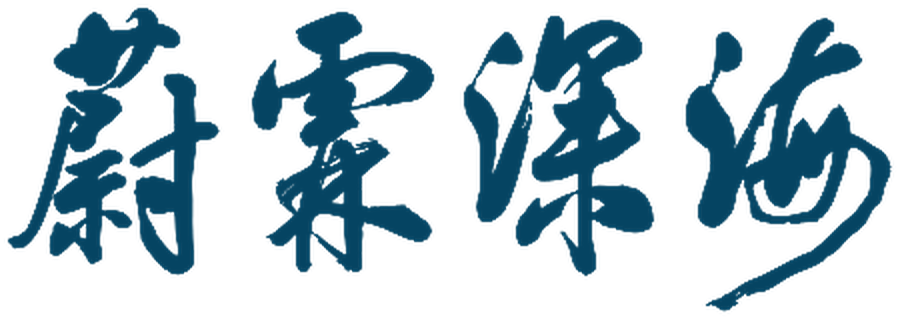
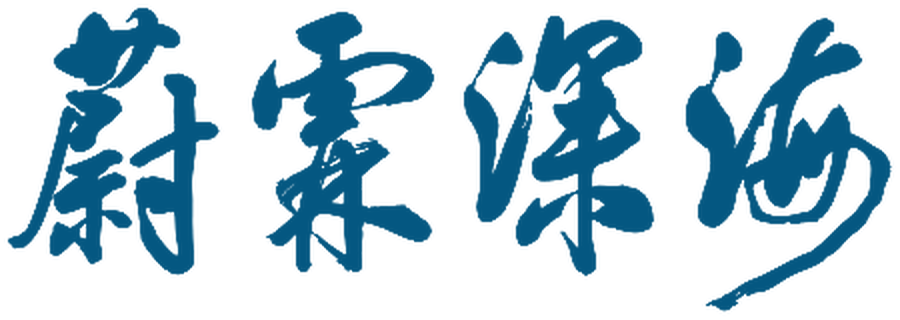
Card-style hero lockup, remove header calligraphy, more brand blue

Changed region(s): [[0.28, 0.0312, 0.7467, 0.8438], [0.7467, 0.0625, 0.9956, 0.9688], [0.0, 0.0312, 0.2489, 0.875]]

diff --git a/index.html b/index.html
@@ -21,8 +21,8 @@
   --text-xl:clamp(1.5rem,1.2rem + 1.25vw,2.25rem);
   --text-hero:clamp(2.75rem,1rem + 5.5vw,6rem);
   --space-2:.5rem;--space-3:.75rem;--space-4:1rem;--space-6:1.5rem;--space-8:2rem;--space-10:2.5rem;--space-12:3rem;--space-16:4rem;--space-24:6rem;
-  --navy:#054462; --blue:#065A82; --ink:#0d2230; --gold:#b8924a;
-  --bg:#f6f4ef; --surface:#fbfaf7; --line:#ddd8cf; --muted:#5e6b73;
+  --navy:#045781; --deep:#033f5e; --blue:#065A82; --ink:#0d2a3a; --gold:#94672f; --champ:#e3b886;
+  --bg:#eef3f6; --surface:#f7f9fa; --line:#cfdde5; --muted:#4f6573;
   --font-display:'Zodiak','Noto Serif TC',Georgia,serif;
   --font-body:'Switzer','Noto Sans TC',system-ui,sans-serif;
   --wrap:min(1120px,100% - 2*var(--space-6));
@@ -40,31 +40,31 @@ html[lang="zh-Hant"] [data-zh]{display:revert}
 
 /* header */
 header{position:fixed;inset:0 0 auto;z-index:20;transition:background .3s,box-shadow .3s}
-header.solid{background:rgba(246,244,239,.92);backdrop-filter:blur(12px);box-shadow:0 1px 0 var(--line)}
+header.solid{background:rgba(4,87,129,.94);backdrop-filter:blur(12px);box-shadow:0 1px 0 rgba(227,184,134,.25)}
 .bar{display:flex;align-items:center;justify-content:space-between;height:72px}
 .brand{display:flex;align-items:center;gap:var(--space-3);font-family:var(--font-display);font-size:var(--text-sm);color:#fff;text-decoration:none;letter-spacing:.06em;transition:color .3s}
-.brand .mk{height:34px;width:auto}
-.brand .mk-n{display:none}
-header.solid .brand .mk-w{display:none}
-header.solid .brand .mk-n{display:block}
-.brand span{padding-left:var(--space-3);border-left:1px solid currentColor;line-height:1.1;opacity:.9}
-@media (max-width:420px){.brand span{display:none}}
-.hero-mark{width:clamp(220px,32vw,440px);height:auto;margin-bottom:var(--space-8);filter:drop-shadow(0 2px 18px rgba(4,26,40,.45))}
+.brand{opacity:0;pointer-events:none;transition:opacity .3s}
+header.solid .brand{opacity:1;pointer-events:auto}
+.brand span{letter-spacing:.14em}
+.lockup{display:inline-block;margin-bottom:var(--space-10);color:var(--champ);filter:drop-shadow(0 2px 14px rgba(3,40,60,.5))}
+.hero-mark{display:block;width:clamp(220px,32vw,440px);height:auto}
+.lockup .en{display:block;font-family:'Switzer',sans-serif;font-weight:400;font-size:clamp(1rem,.8rem + 1vw,1.55rem);letter-spacing:.16em;margin-top:.1em;padding-left:.05em}
+.lockup .co{display:block;font-family:'Noto Sans TC',sans-serif;font-size:clamp(.95rem,.75rem + .9vw,1.4rem);letter-spacing:.32em;margin-top:.35em;padding-left:.05em}
 .contact-mark{width:clamp(160px,18vw,220px);height:auto;margin-bottom:var(--space-8)}
-header.solid .brand{color:var(--navy)}
+header.solid .brand{color:var(--champ)}
 nav{display:flex;align-items:center;gap:var(--space-6)}
 nav a{font-size:var(--text-sm);text-decoration:none;color:rgba(255,255,255,.88);transition:color .3s}
-header.solid nav a{color:var(--ink)}
+header.solid nav a{color:#fff}
 nav a:hover{color:var(--gold)}
 .lang{font:500 var(--text-xs) var(--font-body);letter-spacing:.08em;border:1px solid rgba(255,255,255,.6);color:#fff;background:transparent;border-radius:999px;padding:.35rem .9rem;cursor:pointer;transition:all .3s}
-header.solid .lang{border-color:var(--navy);color:var(--navy)}
+header.solid .lang{border-color:var(--champ);color:var(--champ)}
 .lang:hover{background:var(--gold);border-color:var(--gold);color:#fff}
 @media (max-width:720px){nav a{display:none}}
 
 /* hero */
 .hero{position:relative;min-height:100svh;display:flex;align-items:flex-end;color:#fff;overflow:hidden}
 .hero > img{position:absolute;inset:0;width:100%;height:100%;object-fit:cover;object-position:center 58%}
-.hero::after{content:"";position:absolute;inset:0;background:linear-gradient(180deg,rgba(5,30,45,.45) 0%,rgba(5,30,45,.05) 35%,rgba(5,30,45,.25) 60%,rgba(4,26,40,.85) 100%)}
+.hero::after{content:"";position:absolute;inset:0;background:linear-gradient(180deg,rgba(4,87,129,.55) 0%,rgba(4,87,129,.18) 35%,rgba(4,87,129,.35) 60%,rgba(3,63,94,.92) 100%),rgba(4,87,129,.18)}
 .hero .wrap{position:relative;z-index:1;padding-block:var(--space-24) var(--space-16)}
 .eyebrow{font-size:var(--text-xs);letter-spacing:.22em;text-transform:uppercase;color:#fff;text-shadow:0 1px 12px rgba(4,26,40,.6)}
 .hero h1,.hero p{text-shadow:0 2px 24px rgba(4,26,40,.35)}
@@ -84,7 +84,11 @@ html[lang="zh-Hant"] .story .lead{font-family:'Noto Serif TC',serif}
 .story p+p{margin-top:var(--space-4)}
 .story .body{color:#2f3b42}
 
-.services{background:var(--surface);border-block:1px solid var(--line)}
+.services{background:var(--navy);color:#e8f0f4}
+.services h2,.services .svc h3{color:#fff}
+.services .label,.services .num{color:var(--champ)}
+.services .svc-head p,.services .svc p{color:#c9dbe5}
+.services .svc,.services .svc article{border-color:rgba(227,184,134,.28)}
 .svc-head{display:flex;justify-content:space-between;align-items:end;gap:var(--space-8);flex-wrap:wrap}
 .svc-head p{max-width:44ch;color:var(--muted)}
 .svc{display:grid;grid-template-columns:repeat(3,1fr);margin-top:var(--space-12);border-top:1px solid var(--line)}
@@ -101,7 +105,8 @@ html[lang="zh-Hant"] .story .lead{font-family:'Noto Serif TC',serif}
 .feature li{padding-block:var(--space-3);border-bottom:1px solid var(--line);display:grid;grid-template-columns:1.5rem 1fr;gap:var(--space-2)}
 .feature li::before{content:"";width:6px;height:6px;border-radius:50%;background:var(--gold);margin-top:.7em}
 
-.founder{background:var(--navy);color:#eef3f5}
+.founder{background:var(--deep);color:#eef3f5}
+.founder .label{color:var(--champ)}
 .founder h2{color:#fff}
 .founder .grid{display:grid;grid-template-columns:1fr 1.3fr;gap:clamp(var(--space-8),6vw,var(--space-24))}
 .founder .name{font-family:var(--font-display);font-size:var(--text-xl);margin-top:var(--space-6);color:#fff}
@@ -121,7 +126,7 @@ dl{display:grid;grid-template-columns:auto 1fr;gap:var(--space-3) var(--space-6)
 dt{color:var(--muted)}
 dd{color:var(--ink)}
 
-footer{border-top:1px solid var(--line);padding-block:var(--space-8);font-size:var(--text-xs);color:var(--muted)}
+footer{background:var(--navy);padding-block:var(--space-8);font-size:var(--text-xs);color:var(--champ)}
 footer .wrap{display:flex;justify-content:space-between;gap:var(--space-4);flex-wrap:wrap}
 
 @media (max-width:520px){.mail{font-size:var(--text-lg)}}
@@ -138,7 +143,7 @@ footer .wrap{display:flex;justify-content:space-between;gap:var(--space-4);flex-
 <body>
 <header id="top">
   <div class="wrap bar">
-    <a class="brand" href="#" aria-label="蔚霖深海 Aetherain Marine"><img class="mk mk-w" src="assets/mark-white.png" alt="蔚霖深海"><img class="mk mk-n" src="assets/mark-navy.png" alt=""><span>Aetherain Marine</span></a>
+    <a class="brand" href="#" aria-label="蔚霖深海 Aetherain Marine"><span>Aetherain Marine</span></a>
     <nav aria-label="Main">
       <a href="#about"><span data-en>About</span><span data-zh>關於我們</span></a>
       <a href="#services"><span data-en>What we do</span><span data-zh>業務</span></a>
@@ -153,7 +158,7 @@ footer .wrap{display:flex;justify-content:space-between;gap:var(--space-4);flex-
 <section class="hero" aria-label="Introduction">
   <img src="assets/hero.webp" alt="Rain falling from a bright sky into a calm deep-blue sea" fetchpriority="high">
   <div class="wrap">
-    <img class="hero-mark" src="assets/mark-gold.png" alt="蔚霖深海 calligraphy">
+    <div class="lockup"><img class="hero-mark" src="assets/mark-gold.png" alt="蔚霖深海"><span class="en">Aetherain Marine</span><span class="co">開發股份有限公司</span></div>
     <div class="eyebrow"><span data-en>Taiwan · Marine engineering & yacht partnerships</span><span data-zh>台灣・海洋工程與遊艇合作</span></div>
     <h1><span data-en>From the sky, into the sea.</span><span data-zh>從天而降，流入大海</span></h1>
     <p><span data-en>Aetherain Marine builds the waterfront that yachts come home to, and brings carefully chosen European marine brands to owners in Taiwan.</span><span data-zh>蔚霖深海打造讓遊艇安心停靠的水岸，並把精挑細選的歐洲海洋品牌，帶給台灣的船主。</span></p>
